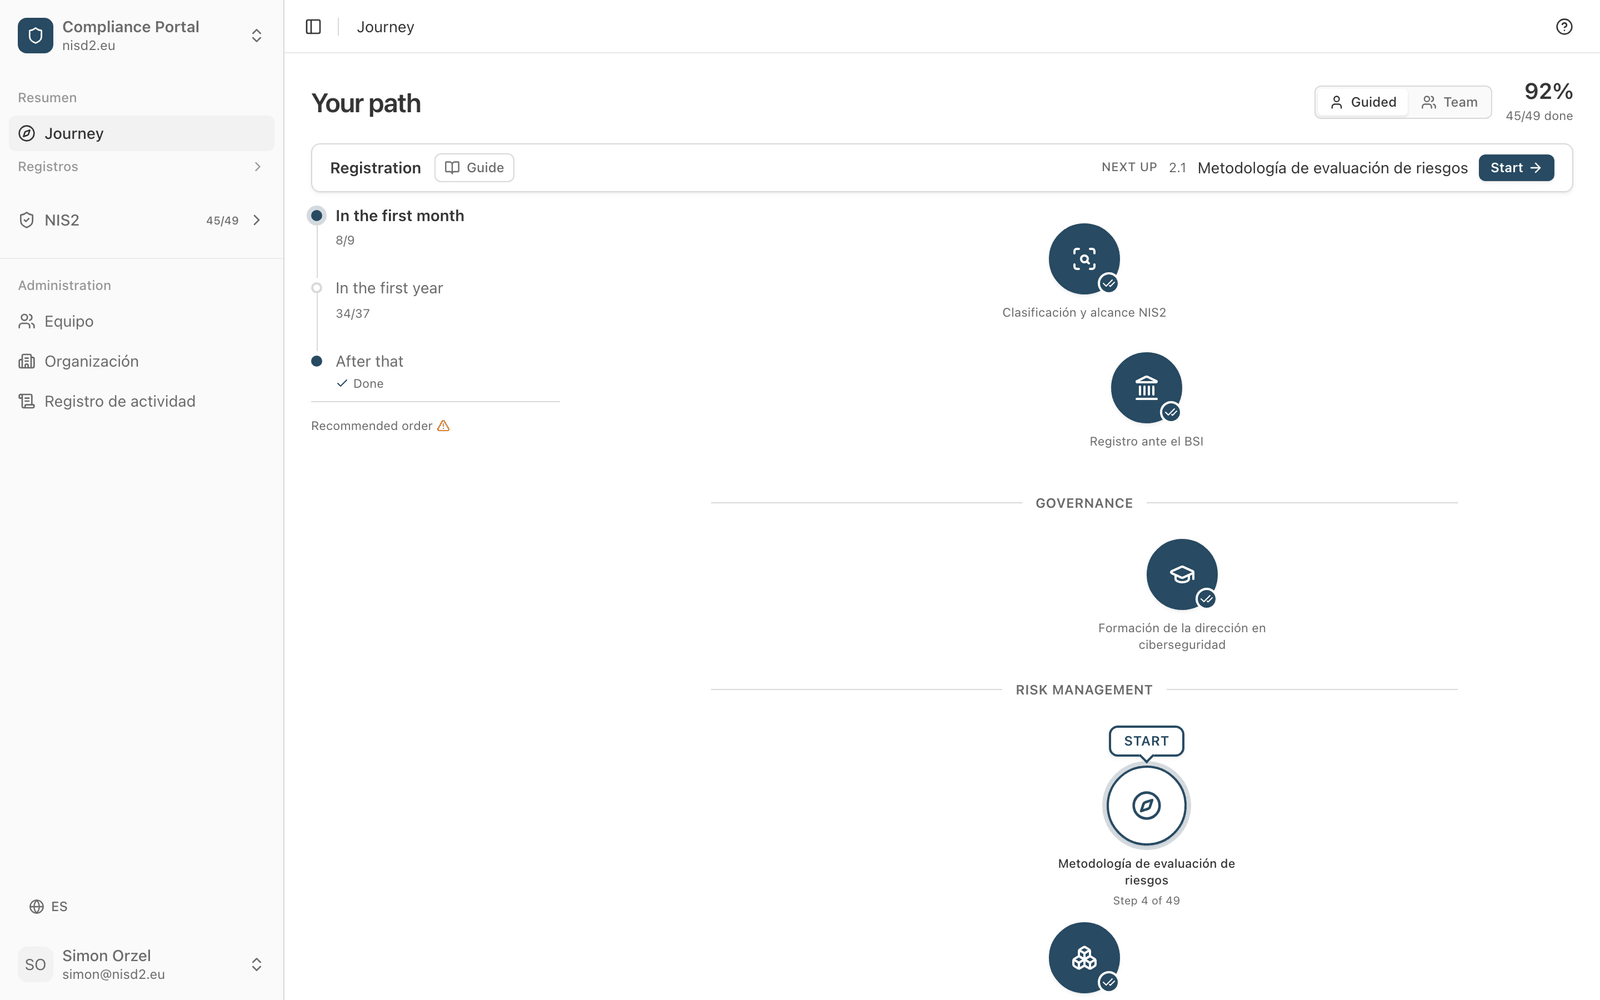
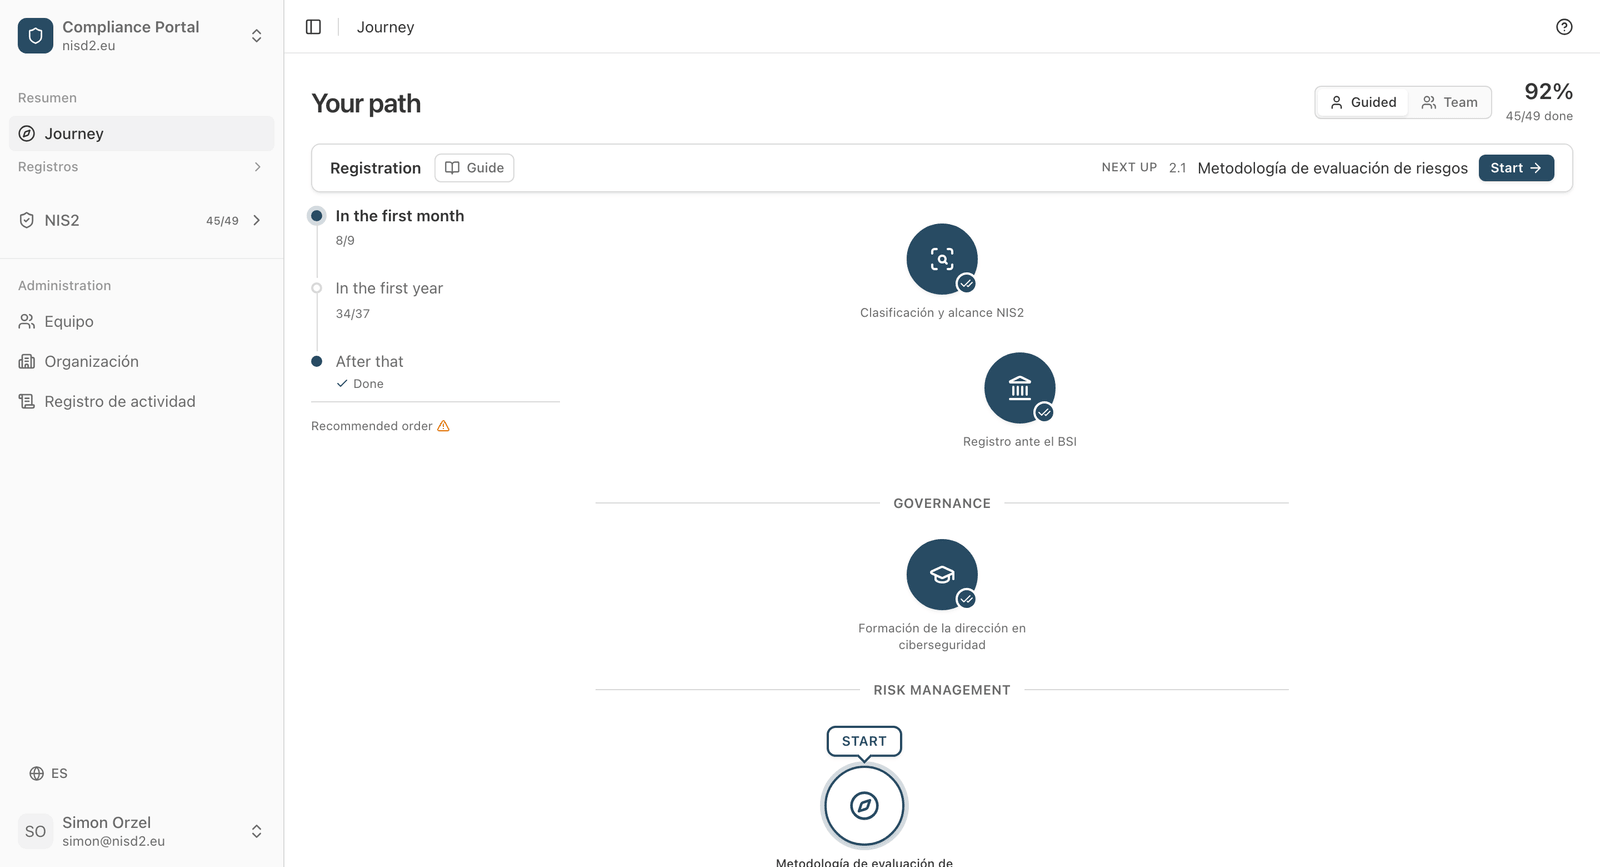
Centre the guided path on the section dividers, and crop the hero tighter (#186)
* Centre the guided path on the section dividers, and crop the hero tighter

The steps still weave, which is the point of a guided path. What was wrong
was the phase.

WAVE ran on a period of eight (0, 56, 88, 56, 0, -56, -88, -56). That has
zero mean over a full cycle, but it opens with its entire positive lobe, and
only about four steps are ever visible at once: on the landing hero and above
the fold in the app. So the first screenful caught the positive lobe whole
and every node sat right of the GOVERNANCE and RISIKOMANAGEMENT dividers. It
read as a centring bug rather than as motion.

Period four (0, 70, 0, -70) keeps the weave and makes any four consecutive
steps average to zero, so the line stays on the dividers' axis wherever you
enter it.

Hero capture height also drops 900 -> 780. The guided layout puts a short
phase rail beside a long path column, so a taller frame is mostly empty
gutter under the rail. Narrowing the viewport makes that worse rather than
better, because the capture gets taller once scaled to 1600px wide; probed at
1440/1280/1180/1100 before settling on trimming height instead. 780 is the
last frame that still holds the whole ANFANGEN callout and the current-step
ring.

All ten locales plus the fallback re-shot.

* Centre the path on the content row, not on what the rail leaves over

The remaining lean was the row, not the wave. PathTimeline is w-56 shrink-0
inside lg:flex lg:gap-8, and the path column is mx-auto INSIDE that row, so
[…]

diff --git a/app/[locale]/(portal)/journey/solo-path.ts b/app/[locale]/(portal)/journey/solo-path.ts
@@ -29,13 +29,6 @@ import {
 } from "./path-nodes";
 
 /**
- * Horizontal offsets in px, cycled over the global step index so the line
- * serpentines continuously down the page instead of restarting at every
- * section header. Mirrors the reference spacing (0, ±44, ±70).
- */
-const WAVE = [0, 56, 88, 56, 0, -56, -88, -56] as const;
-
-/**
  * Stufen: the three deadline windows, read straight off the bands rather than
  * restated here. The band already carries both the "by when" and the sentence
  * under it, and a second copy is how the two views end up disagreeing about
@@ -51,6 +44,21 @@ function stageForBand(band: Band, de: boolean): SoloStage {
     hint: de ? meta.hintDe : meta.hintEn,
   };
 }
+
+/**
+ * Horizontal offsets in px, cycled over the global step index so the line
+ * serpentines down the page instead of restarting at every section header.
+ *
+ * The period is four, and that is the whole point. It used to be eight
+ * (0, 56, 88, 56, 0, -56, -88, -56), which has zero mean over a full cycle but
+ * opens with its entire positive lobe. Only about four steps are ever visible
+ * at once, on the landing hero and above the fold in the app, so the first
+ * screenful caught that lobe and every node sat right of the section dividers.
+ * It read as a centring bug rather than as motion. At period four any four
+ * consecutive steps average to zero, so the path still weaves but stays on the
+ * dividers' axis wherever you look at it.
+ */
+const WAVE = [0, 70, 0, -70] as const;
 
 export type SoloStep = {
   node: FlowNode;

diff --git a/app/[locale]/(portal)/journey/SoloPath.tsx b/app/[locale]/(portal)/journey/SoloPath.tsx
@@ -18,7 +18,7 @@ import {
 } from "@/components/ui/hover-card";
 import { Link } from "@/i18n/navigation";
 import { cn } from "@/lib/utils";
-import { PathTimeline } from "./PathTimeline";
+import { PathTimeline, RAIL_WIDTH } from "./PathTimeline";
 import {
   type DotState,
   dotStateOf,
@@ -58,6 +58,9 @@ function categoryHref(categorySlug: string) {
 
 /**
  * The guided layout: one winding line of steps, exactly one of them live.
+ *
+ * The winding is deliberate, the Duolingo-shaped path. What was wrong was its
+ * phase, not its existence: see WAVE in solo-path.ts.
  *
  * Deliberately missing next to the team view: role columns, the ordering
  * toggle, status filter chips and the state legend. All of it describes how
@@ -173,6 +176,14 @@ export function SoloPath({
               : `That is the whole path: ${total} steps.`}
           </p>
         </div>
+
+        {/* Mirrors the rail's footprint so the path centres on the content
+            area instead of on whatever the rail leaves over. Without it the
+            column is pushed right by half the rail plus half the gap, which
+            reads as the path being lopsided rather than the row being
+            off-balance. Empty and hidden from the tree: it is spacing, not
+            content. */}
+        <div aria-hidden="true" className={cn("hidden shrink-0 lg:block", RAIL_WIDTH)} />
       </div>
     </div>
   );

diff --git a/app/[locale]/(portal)/journey/PathTimeline.tsx b/app/[locale]/(portal)/journey/PathTimeline.tsx
@@ -13,6 +13,19 @@ import type { StageProgress } from "./solo-path";
 type Locale = "en" | "de" | "nl";
 
 /**
+ * The rail's footprint in the row, exported because SoloPath mirrors it on the
+ * far side to keep the path centred.
+ *
+ * The docstring below says the rail "lives in the gutter a centred path leaves
+ * empty", and that was the intent, but a plain flex row does not deliver it: a
+ * 14rem rail plus the gap ate the left side and `mx-auto` then centred the path
+ * on what remained, parking it ~128px right of the content centre. The steps
+ * and the section dividers agreed with each other, so it read as the path
+ * itself being lopsided rather than as the row being off-balance.
+ */
+export const RAIL_WIDTH = "w-56";
+
+/**
  * The vertical rail beside the path: the three deadline windows, and which one
  * you are reading.
  *
@@ -48,7 +61,7 @@ export function PathTimeline({
       // Pins below the bar, not level with it: the bar occupies 68px to about
       // 108px, so a rail sharing its offset slides underneath and loses its
       // first lines to it.
-      className="sticky top-[120px] hidden w-56 shrink-0 self-start lg:block"
+      className={cn("sticky top-[120px] hidden shrink-0 self-start lg:block", RAIL_WIDTH)}
     >
       <ol>
         {stages.map((stage, i) => (
